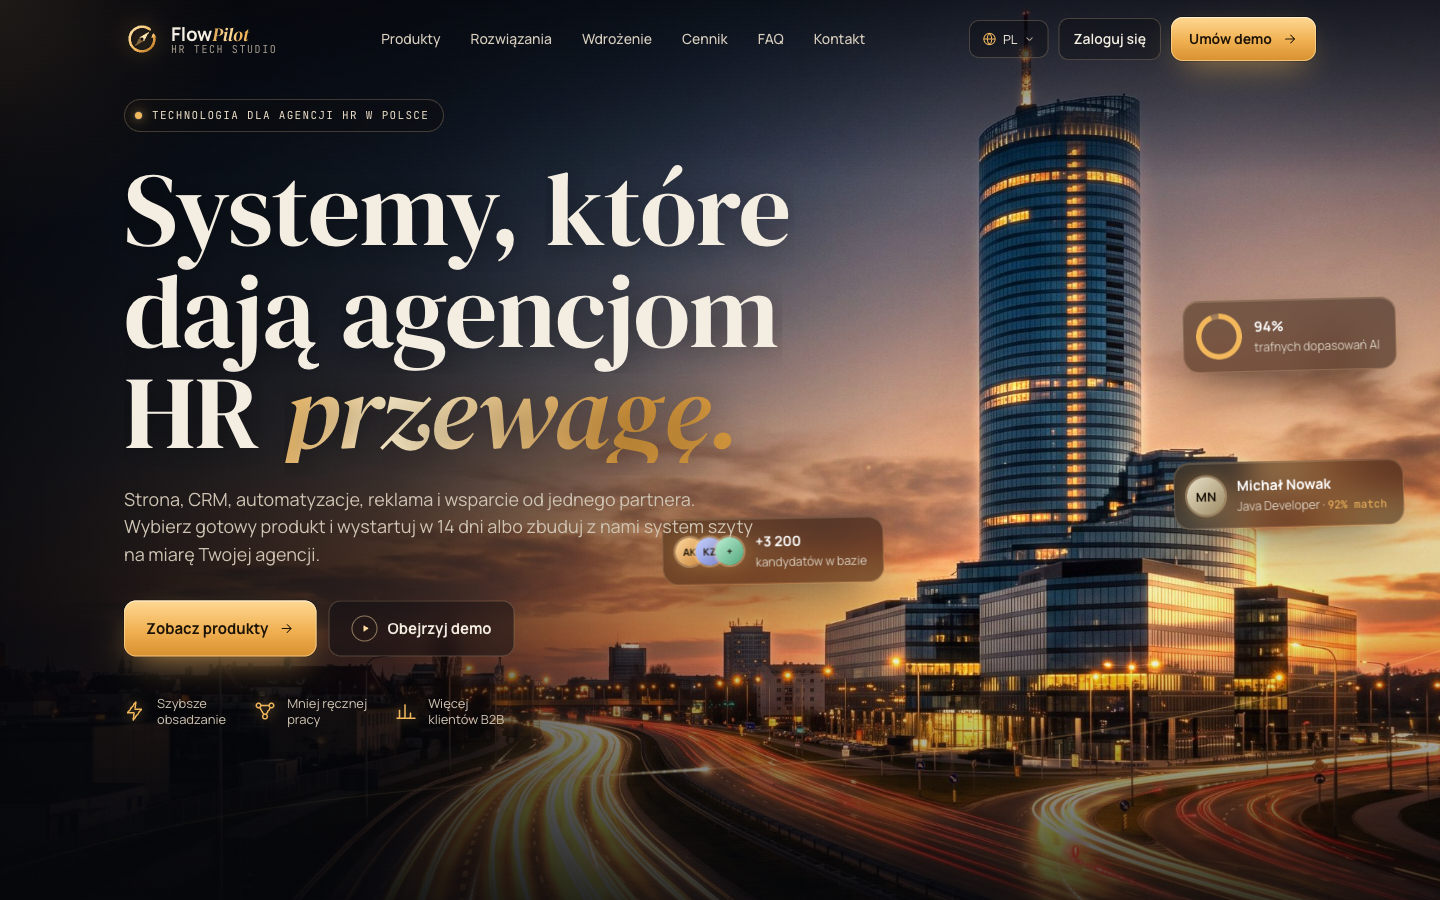
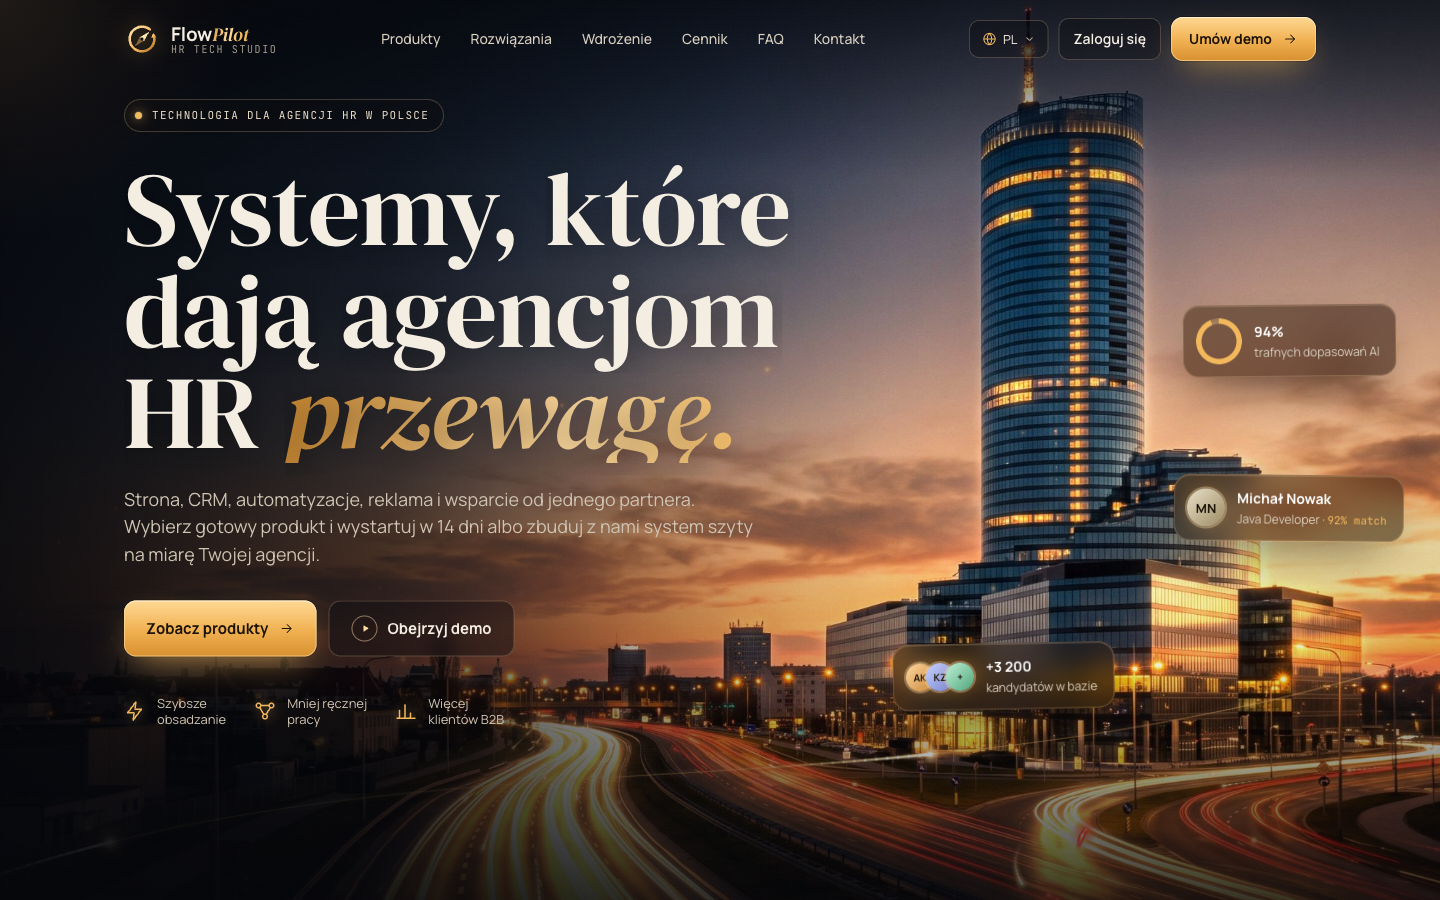
Fix hero card overlap on common laptop screens
Move the '+3 200 candidates' card out of the text column, hide it on short desktop viewports and refresh the desktop screenshot.

diff --git a/public/index.html b/public/index.html
@@ -463,6 +463,8 @@ html:not(.js) .pre{display:none}
   .js .rv,.js .fade-up,.js .fc{opacity:1;transform:none;filter:none}
   .js .hero h1 .w>span{transform:none}
 }
+/* short desktop viewports (e.g. 1440x778 laptops) */
+@media (max-height:880px) and (min-width:901px){.hero{padding-top:96px;padding-bottom:6svh}.hero h1{font-size:clamp(46px,9.5svh,104px);margin:18px 0 16px}.fc.hide-md{display:none}}
 </style>
 </head>
 <body>
@@ -537,7 +539,7 @@ html:not(.js) .pre{display:none}
   <div class="floats" aria-hidden="true">
     <div class="fc" style="right:3%;top:34%;animation-delay:-4s"><div class="ring"></div><div><b>94%</b>trafnych dopasowań AI</div></div>
     <div class="fc" style="right:2.5%;top:52%;animation-delay:-2s"><span class="av a3">MN</span><div><b>Michał Nowak</b>Java Developer · <span class="m">92% match</span></div></div>
-    <div class="fc hide-md" style="left:46%;top:58%;animation-delay:-5s"><div class="fc-stack"><span class="av a1">AK</span><span class="av a4">KZ</span><span class="av a6">+</span></div><div><b>+3 200</b>kandydatów w bazie</div></div>
+    <div class="fc hide-md" style="left:max(62%,880px);top:72%;animation-delay:-5s"><div class="fc-stack"><span class="av a1">AK</span><span class="av a4">KZ</span><span class="av a6">+</span></div><div><b>+3 200</b>kandydatów w bazie</div></div>
   </div>
 
 
